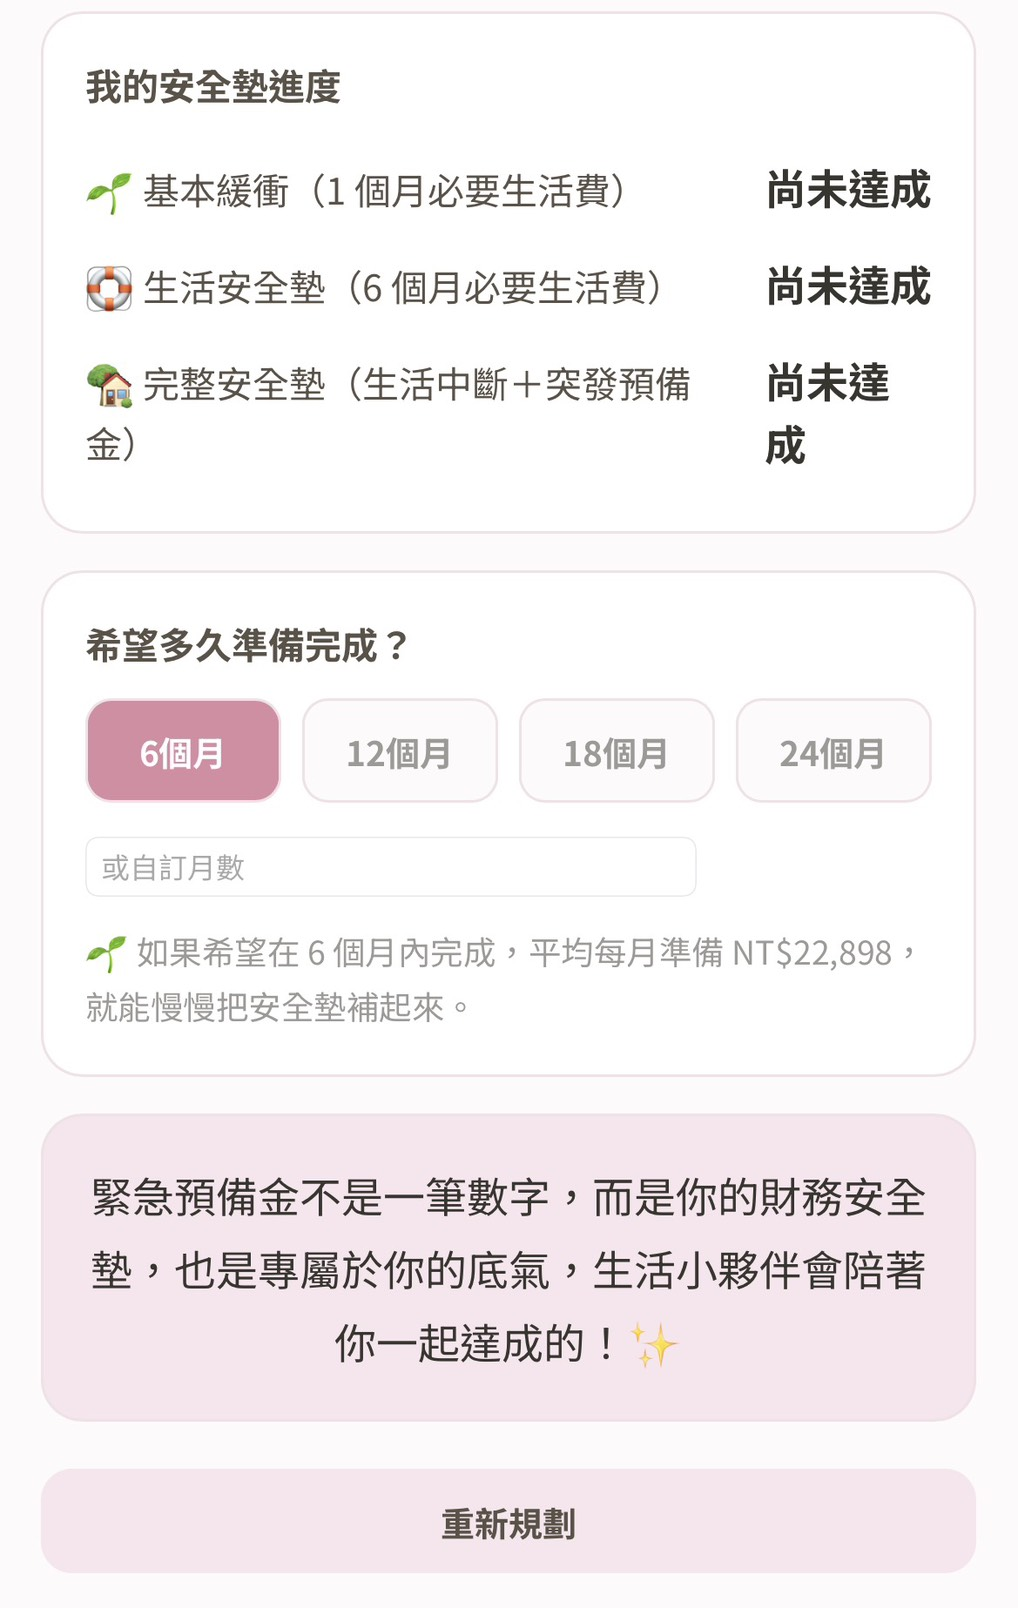
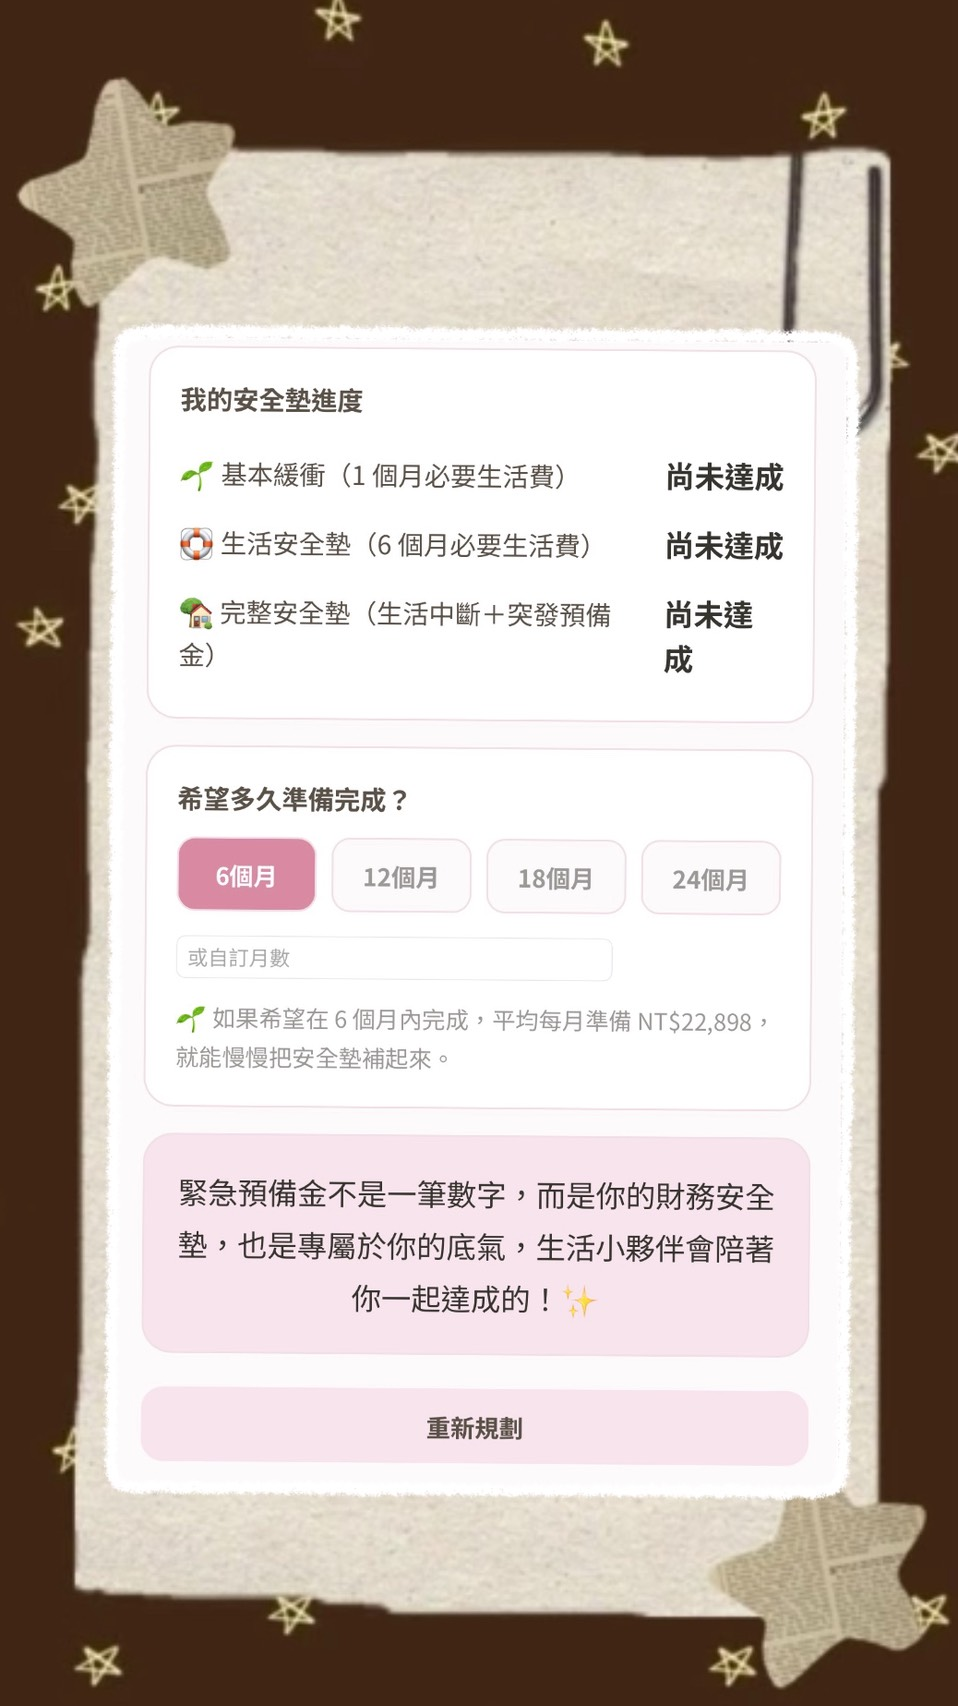
Round corners on asset carousel images and add decorated ef2
Replace ef2.png with the matching decorated version (same 1.78 ratio
as the other five), and add border-radius:16px to all asset carousel
images per feedback.

Claude-Session: https://claude.ai/code/session_01HASXpjPorS2wRhF6Eij8Rn

diff --git a/sales/index.html b/sales/index.html
@@ -139,7 +139,7 @@ header.top{
 .asset-carousel{ display:flex; gap:14px; overflow-x:auto; scroll-snap-type:x mandatory; -webkit-overflow-scrolling:touch; margin-top:8px; padding-bottom:6px; scrollbar-width:none; }
 .asset-carousel::-webkit-scrollbar{ display:none; }
 .asset-carousel .ac-item{ flex:0 0 78%; max-width:260px; scroll-snap-align:start; }
-.asset-carousel img{ width:100%; display:block; }
+.asset-carousel img{ width:100%; display:block; border-radius:16px; }
 .asset-carousel-hint{ margin-top:10px; font-size:12px; color:var(--ink-faint); text-align:center; }
 
 /* ---------- life trace ---------- */
